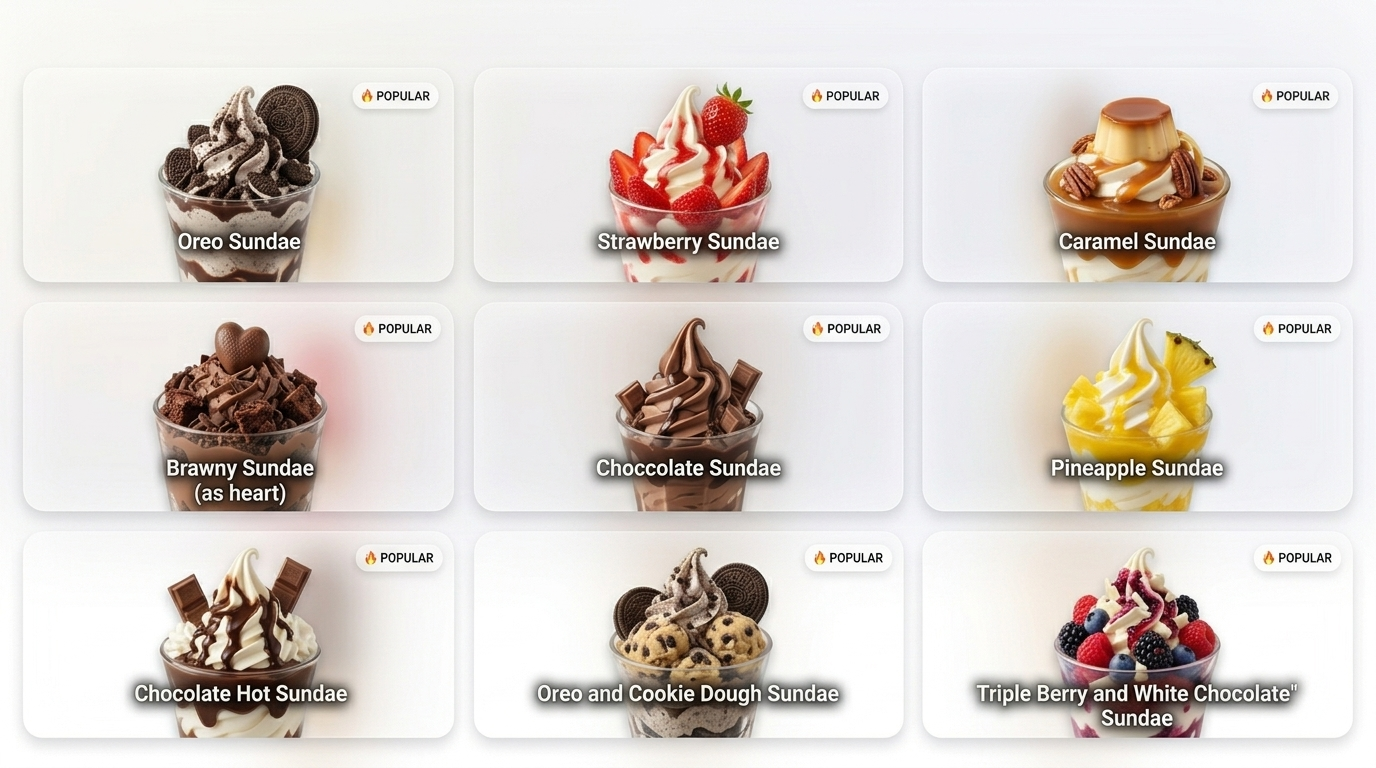
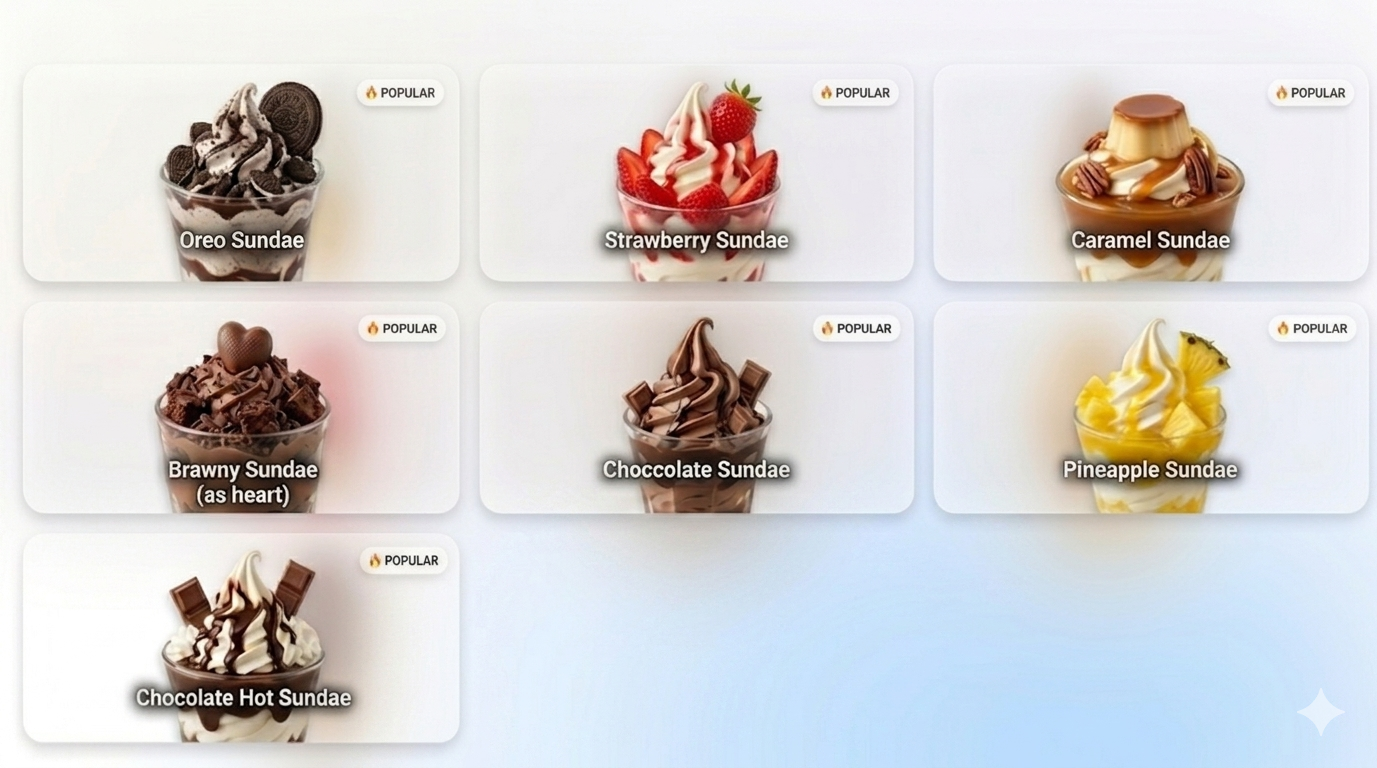
update

diff --git a/src/pages/Menu.jsx b/src/pages/Menu.jsx
@@ -1,23 +1,29 @@
 import { useState } from 'react'
 import './Menu.css'
 
-// toppings (KEEP SAME)
+// existing toppings
 import trixLogo from '../assets/trix.png'
 import frootLoopsLogo from '../assets/Frootloops.png'
 import fruityPebblesLogo from '../assets/fruitypebbles.png'
 import ctcLogo from '../assets/Cinnamon.png'
 import mmsLogo from '../assets/mm.png'
 
-// CATEGORY IMAGES (YOU REPLACE THESE)
-import pic1 from '../assets/cones.png' // cones
-import pic2 from '../assets/wafflecones.png' // waffle
-import pic3 from '../assets/sundaes.png' // sundaes
-import pic4 from '../assets/bubbletea.png' // bubble
-import pic5 from '../assets/icedandfl.png' // drinks
-import pic6 from '../assets/smoothies.png' // smoothies
-import pic7 from '../assets/milkshake.png' // milks
-import pic8 from '../assets/snowice.png' // snowballs
-import pic9 from '../assets/slushies.png' // slushies
+// 🆕 NEW TOPPING IMAGES (REPLACE THESE FILES)
+import top1 from '../assets/pnt.png' // peanuts
+import top2 from '../assets/oreo.png' // oreo
+import top3 from '../assets/chcsp.png' // chocolate sprinkles
+import top4 from '../assets/spr.png' // rainbow sprinkles
+
+// CATEGORY IMAGES
+import pic1 from '../assets/cones.png'
+import pic2 from '../assets/wafflecones.png'
+import pic3 from '../assets/sundaes.png'
+import pic4 from '../assets/bubbletea.png'
+import pic5 from '../assets/icedandfl.png'
+import pic6 from '../assets/smoothies.png'
+import pic7 from '../assets/milkshake.png'
+import pic8 from '../assets/snowice.png'
+import pic9 from '../assets/slushies.png'
 
 const Menu = () => {
   const [activeCategory, setActiveCategory] = useState('cones')
@@ -35,13 +41,18 @@ const Menu = () => {
     { id: 'top', label: 'Topping', icon: '✨' },
   ]
 
-  // TOPPINGS ONLY
   const toppings = [
     { id: 1, name: 'Trix Topping', image: trixLogo },
     { id: 2, name: 'Froot Loops', image: frootLoopsLogo },
     { id: 3, name: 'Fruity Pebbles', image: fruityPebblesLogo },
     { id: 4, name: 'Cinnamon Toast Crunch', image: ctcLogo },
     { id: 5, name: 'M&M', image: mmsLogo },
+
+    // 🆕 NEW TOPPINGS
+    { id: 6, name: 'Peanuts', image: top1 },
+    { id: 7, name: 'Oreo Crumble', image: top2 },
+    { id: 8, name: 'Chocolate Sprinkles', image: top3 },
+    { id: 9, name: 'Rainbow Sprinkles', image: top4 },
   ]
 
   const activeCat = categories.find(c => c.id === activeCategory)
@@ -71,7 +82,7 @@ const Menu = () => {
         ))}
       </div>
 
-      {/* ===== CATEGORY IMAGE (ALL EXCEPT TOPPING) ===== */}
+      {/* CATEGORY IMAGE */}
       {activeCategory !== 'top' && (
         <div className="menu-image-wrapper">
           <img
@@ -82,7 +93,22 @@ const Menu = () => {
         </div>
       )}
 
-      {/* ===== TOPPINGS GRID (UNCHANGED STYLE) ===== */}
+      {/* CTA BUTTON */}
+      {(activeCategory === 'wafflecones' || activeCategory === 'sundaes') && (
+        <div className="topping-cta">
+          <button
+            className="topping-btn"
+            onClick={() => {
+              setActiveCategory('top')
+              window.scrollTo({ top: 0, behavior: 'smooth' })
+            }}
+          >
+            ✨ Customize with Toppings
+          </button>
+        </div>
+      )}
+
+      {/* TOPPINGS GRID */}
       {activeCategory === 'top' && (
         <div className="menu-grid">
           {toppings.map((item) => (

diff --git a/src/pages/Home.jsx b/src/pages/Home.jsx
@@ -43,28 +43,28 @@ const Home = () => {
   }))
 )
 
-  const features = [
-    {
-      icon: '🍦',
-      title: 'Magical Flavors',
-      desc: 'Over 50 unique underwater-inspired ice cream flavors made with real ocean-fresh ingredients!',
-    },
-    {
-      icon: '🚚',
-      title: 'Mobile Truck',
-      desc: 'Our colorful truck brings the party to your neighborhood, school, or special event!',
-    },
-    {
-      icon: '🌊',
-      title: 'Eco-Friendly',
-      desc: 'We use biodegradable packaging and support ocean conservation with every scoop!',
-    },
-    {
-      icon: '🎉',
-      title: 'Party Ready',
-      desc: 'Book us for birthdays, weddings, corporate events, and any celebration!',
-    },
-  ]
+const features = [
+  {
+    icon: '🍦',
+    title: 'Premium Quality Ice Cream',
+    desc: 'We serve rich, creamy ice cream made with high-quality ingredients for a consistently smooth and delicious experience.',
+  },
+  {
+    icon: '🚚',
+    title: 'Fully Mobile Service',
+    desc: 'Our ice cream truck comes directly to your location, making it easy to bring great treats to any neighborhood or event.',
+  },
+  {
+    icon: '✨',
+    title: 'Customizable Treats',
+    desc: 'From cones to sundaes, personalize your order with a variety of toppings, sauces, and flavor combinations.',
+  },
+  {
+    icon: '🎉',
+    title: 'Perfect for Events',
+    desc: 'Ideal for birthdays, school functions, private parties, and corporate events — we handle the treats so you can enjoy the moment.',
+  },
+]
 
   const testimonials = [
     {

diff --git a/src/pages/Menu.css b/src/pages/Menu.css
@@ -172,6 +172,44 @@ html, body {
   right: 16px;
   z-index: 2;
 }
+.topping-cta {
+  display: flex;
+  justify-content: center;
+  margin-top: -20px; /* pulls it closer to image */
+  margin-bottom: 40px;
+}
+
+.topping-btn {
+  padding: 14px 28px;
+
+  /* 🔥 glass style */
+  background: rgba(255, 255, 255, 0.12);
+  backdrop-filter: blur(12px);
+  -webkit-backdrop-filter: blur(12px);
+
+  border: 1px solid rgba(255, 255, 255, 0.25);
+  border-radius: 50px;
+
+  color: white;
+  font-weight: 700;
+  font-size: 1rem;
+
+  cursor: pointer;
+  transition: all 0.3s ease;
+
+  box-shadow: 
+    0 10px 30px rgba(0,0,0,0.25),
+    inset 0 1px 0 rgba(255,255,255,0.3);
+}
+.topping-btn:hover {
+  transform: translateY(-4px) scale(1.05);
+
+  background: linear-gradient(135deg, var(--yellow), var(--pink));
+
+  border: none;
+
+  box-shadow: 0 12px 35px rgba(255, 107, 157, 0.4);
+}
 
 .popular-badge span {
   display: inline-flex;

diff --git a/src/pages/Contact.jsx b/src/pages/Contact.jsx
@@ -1,4 +1,4 @@
-import { FaEnvelope,FaInstagram, FaTiktok, FaFacebookF, FaLinkedinIn, FaMapMarkerAlt, FaPhoneAlt } from 'react-icons/fa'
+import { FaEnvelope,FaInstagram, FaFacebookF, FaMapMarkerAlt, FaPhoneAlt } from 'react-icons/fa'
 
 import './Contact.css'
 